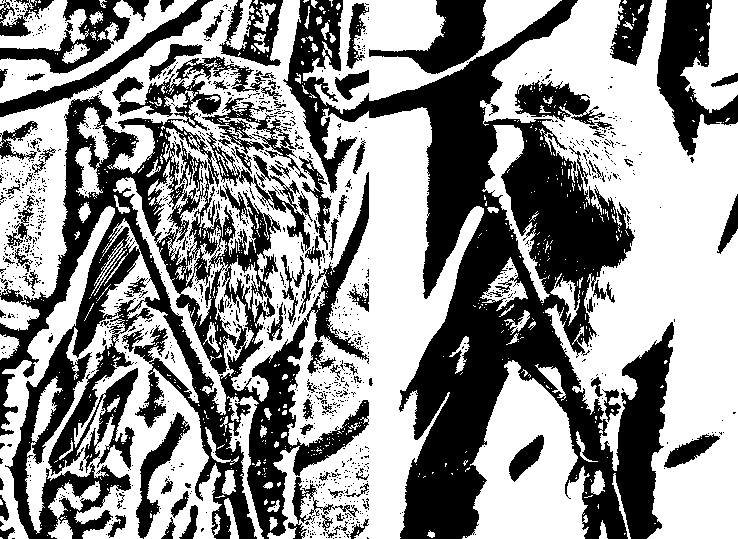
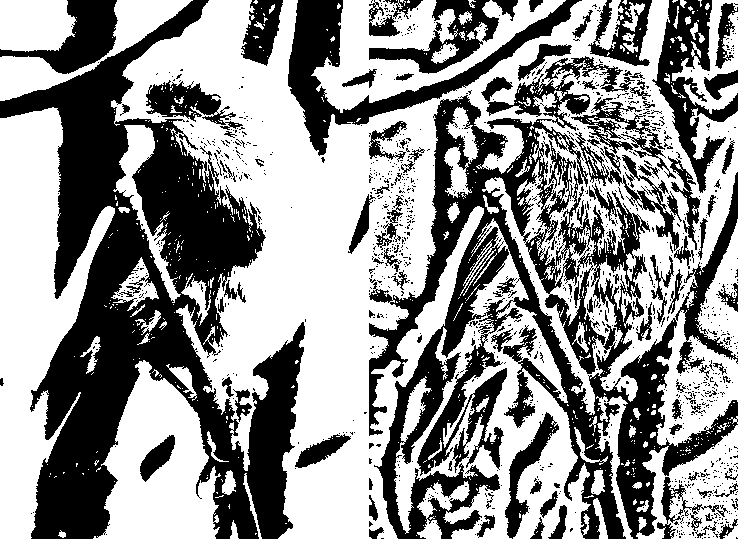
Switch to stack-based model for combining operations

Changed region(s): [[0.0, 0.0, 1.0, 1.0]]

diff --git a/src/stage.rs b/src/stage.rs
@@ -12,59 +12,173 @@ use imageproc::{
     seam_carving::shrink_width,
 };
 use std::cmp;
-use std::collections::HashMap;
 
-/// A variable in the image pipeline.
-#[derive(Debug, Clone, Hash, PartialEq, Eq)]
-pub struct Var(String);
+// TODO:
+// - hcat should support an arbitrary number of arguments - either read everything left on the stack or take num_imgs argument
+// - at the end of processing, read images off the stack and write as many as we have output names for
+//      example flows
+//          read two inputs
+//              first: blur
+//              second: sharpen
+//          finally: hcat blur sharpen
+// 
+//          read one input
+//              hcat (red channel input) (blue channel input)
+// 
+//          read one input 
+//              write red, blue and green channels as separate images
+//  - add vcat
+//  - support user-defined functions over pixels, e.g. map \x -> x * 0.3
+//  - add support for everything else relevant from imageproc
+//  - add validation for parsing of individual stages (make them subcommands somehow?)
+//  - add specific subcommands for the pipeline stages?
+//      e.g. make -p 'scale 0.4' equivalent to --scale 0.4
+//  - add stages with optional parameters. e.g. rotate uses image centre by default, but user
+//      can specify a centre of rotation if they like
 
-pub struct Graph {
-    pipelines: Vec<(Var, Vec<Stage>)>
+pub struct Stack<T> {
+    // The top of the stack is the last element in the vector.
+    contents: Vec<T>,
 }
 
-impl Graph {
-    pub fn parse(definition: &str) -> Self {
-        let mut pipelines = Vec::new();
-        for p in definition.split(';') {
-            // TODO: only the final pipeline is allowed to be missing a variable
-            // TODO: topological sort?
-            // TODO: validate input (e.g. only one equals sign). Create a proper grammar
-            let split: Vec<&str> = p.split('=').map(|s| s.trim()).collect();
-            let name = if split.len() > 1 { Var(split[0].into()) } else { Var(String::from("FINAL")) };
-            let stages = split.last().unwrap().split('>').map(|s| s.trim()).map(Stage::parse).collect();
-            pipelines.push((name, stages));
-        }
-        Graph { pipelines }
+// TODO: Write tests for all Stack functions.
+impl<T: Clone> Stack<T> {
+    /// Create a stack with the given initial elements.
+    /// The top of the stack is the last item in the provided vector.
+    pub fn new(contents: Vec<T>) -> Self {
+        Stack { contents }
     }
 
-    pub fn process(&self, input: DynamicImage, verbose: bool) -> DynamicImage {
-        let mut var_to_image = HashMap::new();
-        for (var, pipeline) in &self.pipelines {
-            let mut output = input.clone();
-            // TODO: write something that makes a bit more sense!
-            for stage in pipeline {
-                if verbose {
-                    println!("Applying stage {:?}", stage);
-                }
-                output = match stage {
-                    Stage::HCat(l, r) => {
-                        let inputs = vec![&var_to_image[&l], &var_to_image[&r]];
-                        stage.apply(&inputs)
-                    },
-                    _ => {
-                        let inputs = vec![&output];
-                        stage.apply(&inputs)
-                    }
-                }
-            }
-            var_to_image.insert(var, output);
+    fn len(&self) -> usize {
+        self.contents.len()
+    }
+
+    fn assert_stack_size(&self, op: &str, required: usize) {
+        assert!(
+            self.len() >= required,
+            "operation {} requires {} elements, but the stack only contains {}",
+            op, required, self.len()
+        );
+    }
+
+    // dup ( a -- a a )
+    fn dup(&mut self) {
+        self.assert_stack_size("dup", 1);
+        self.contents.push(self.contents[self.len() - 1].clone());
+    }
+
+    // drop ( a -- )
+    fn drop(&mut self) {
+        self.assert_stack_size("drop", 1);
+        self.contents.remove(self.len() - 1);
+    }
+
+    // swap ( a b -- b a )
+    fn swap(&mut self) {
+        self.assert_stack_size("swap", 2);
+        let (i, j) = (self.len() - 1, self.len() - 2);
+        self.contents.swap(i, j);
+    }
+
+    // over ( a b -- a b a )
+    fn over(&mut self) {
+        self.assert_stack_size("over", 2);
+        let a = self.contents[self.len() - 1].clone();
+        self.contents.insert(self.len() - 2, a);
+    }
+
+    // rot ( a b c -- b c a )
+    fn rot(&mut self) {
+        self.assert_stack_size("rot", 3);
+        let a = self.contents[self.len() - 1].clone();
+        self.contents.remove(self.contents.len() - 1);
+        self.contents.insert(self.len() - 3, a);
+    }
+
+    // pops the top of the stack.
+    fn pop(&mut self) -> T {
+        assert!(!self.contents.is_empty(), "cannot pop an empty stack");
+        self.contents.pop().unwrap()
+    }
+
+    // pushes onto the top of the stack.
+    fn push(&mut self, x: T) {
+        self.contents.push(x);
+    }
+}
+
+type ImageStack = Stack<DynamicImage>;
+
+// TODO: support returning multiple images
+pub fn run_pipeline(pipeline: &str, inputs: Vec<DynamicImage>, verbose: bool) -> DynamicImage {
+    // TODO: validation!
+    let ops: Vec<Op> = pipeline.split('>').map(|s| s.trim()).map(|s| Op::parse(s).unwrap()).collect();
+    let mut stack = ImageStack::new(inputs);
+
+    for op in ops {
+        if verbose {
+            println!("Applying op {:?}", op);
         }
-        var_to_image[&Var(String::from("FINAL"))].clone()
+        op.apply(&mut stack);
+    }
+
+    stack.pop()
+}
+
+#[derive(Debug)]
+pub enum Op {
+    StackOp(StackOp),
+    ImageOp(ImageOp),
+}
+
+impl Op {
+    fn parse(op: &str) -> Option<Op> {
+        match StackOp::parse(op) {
+            Some(o) => Some(Op::StackOp(o)),
+            None => match ImageOp::parse(op) {
+                Some(o) => Some(Op::ImageOp(o)),
+                None => None,
+            }
+        }
+    }
+
+    fn apply(&self, stack: &mut ImageStack) {
+        match self {
+            Op::StackOp(s) => s.apply(stack),
+            Op::ImageOp(o) => o.apply(stack),
+        }
+    }
+}
+
+#[derive(Debug, Copy, Clone, PartialEq, Eq, Hash)]
+pub enum StackOp { Dup, Drop, Swap, Over, Rot }
+
+impl StackOp {
+    fn parse(op: &str) -> Option<Self> {
+        match op {
+            "DUP" => Some(StackOp::Dup),
+            "DROP" => Some(StackOp::Drop),
+            "SWAP" => Some(StackOp::Swap),
+            "OVER" => Some(StackOp::Over),
+            "ROT" => Some(StackOp::Rot),
+            _ => None,
+        }
+    }
+
+    fn apply(&self, stack: &mut ImageStack) {
+        // TODO: inline stack function definitions here?
+        match self {
+            StackOp::Dup => stack.dup(),
+            StackOp::Drop => stack.drop(),
+            StackOp::Swap => stack.swap(),
+            StackOp::Over => stack.over(),
+            StackOp::Rot => stack.rot(),
+        }
     }
 }
 
 #[derive(Debug)]
-pub enum Stage {
+pub enum ImageOp {
     /// Scale both width and height by given multiplier.
     Scale(f32),
     /// Apply a Gaussian blur with the given standard deviation.
@@ -77,69 +191,71 @@ pub enum Stage {
     Sobel,
     /// Apply seam carving to shrink the image to a provided multiple of its original width.
     Carve(f32),
-    /// Binarises the image using an adaptive thresholding with given block radius.
+    /// Binarise the image using an adaptive thresholding with given block radius.
     AdaptiveThreshold(u32),
-    /// Binarises the image using Otsu thresholding.
+    /// Binarise the image using Otsu thresholding.
     OtsuThreshold,
-    /// The horizontal concatenation of two named images.
-    HCat(Var, Var),
+    /// Horizontally concatenate two images.
+    HCat,
 }
 
-impl Stage {
-    pub fn apply(&self, images: &[&DynamicImage]) -> DynamicImage {
+impl ImageOp {
+    pub fn apply(&self, stack: &mut ImageStack) {
         match self {
             Self::Scale(s) => {
-                let image = images[0];
+                let image = stack.pop();
                 let (w, h) = ((image.width() as f32 * s) as u32, (image.height() as f32 * s) as u32);
-                image.resize(w, h, FilterType::Lanczos3)
+                stack.push(image.resize(w, h, FilterType::Lanczos3));
             },
             Self::Gaussian(s) => {
-                let image = images[0];
-                image.gaussian(*s)
+                let image = stack.pop();
+                stack.push(image.gaussian(*s));
             },
             Self::Gray => {
-                let image = images[0];
-                image.grayscale()
+                let image = stack.pop();
+                stack.push(image.grayscale());
             },
             Self::Rotate(t) => {
-                let image = images[0];
-                image.rotate(*t)
+                let image = stack.pop();
+                stack.push(image.rotate(*t));
             },
             Self::Sobel => {
-                let image = images[0];
-                image.sobel()
+                let image = stack.pop();
+                stack.push(image.sobel());
             },
             Self::Carve(r) => {
-                let image = images[0];
-                image.carve(*r)
+                let image = stack.pop();
+                stack.push(image.carve(*r));
             },
             Self::AdaptiveThreshold(r) => {
-                let image = images[0];
-                image.adaptive_threshold(*r)
+                let image = stack.pop();
+                stack.push(image.adaptive_threshold(*r));
             },
             Self::OtsuThreshold => {
-                let image = images[0];
-                image.otsu_threshold()
+                let image = stack.pop();
+                stack.push(image.otsu_threshold());
             },
-            Self::HCat(_l, _r) => {
-                hcat(images[0], images[1])
+            Self::HCat => {
+                let l = stack.pop();
+                let r = stack.pop();
+                stack.push(hcat(&l, &r));
             }
         }
     }
 
-    pub fn parse(stage: &str) -> Stage {
-        let split: Vec<&str> = stage.split_whitespace().collect();
+    pub fn parse(op: &str) -> Option<ImageOp> {
+        let split: Vec<&str> = op.split_whitespace().collect();
         match split[0] {
-            "scale" => Stage::Scale(split[1].parse().unwrap()),
-            "gaussian" => Stage::Gaussian(split[1].parse().unwrap()),
-            "gray" => Stage::Gray,
-            "rotate" => Stage::Rotate(split[1].parse().unwrap()),
-            "sobel" => Stage::Sobel,
-            "carve" => Stage::Carve(split[1].parse().unwrap()),
-            "athresh" => Stage::AdaptiveThreshold(split[1].parse().unwrap()),
-            "othresh" => Stage::OtsuThreshold,
-            "hcat" => Stage::HCat(Var(split[1].into()), Var(split[2].into())),
-            _ => panic!("Unrecognised stage name {}", split[0]),
+            "scale" => Some(ImageOp::Scale(split[1].parse().unwrap())),
+            "gaussian" => Some(ImageOp::Gaussian(split[1].parse().unwrap())),
+            "gray" => Some(ImageOp::Gray),
+            "rotate" => Some(ImageOp::Rotate(split[1].parse().unwrap())),
+            "sobel" => Some(ImageOp::Sobel),
+            "carve" => Some(ImageOp::Carve(split[1].parse().unwrap())),
+            "athresh" => Some(ImageOp::AdaptiveThreshold(split[1].parse().unwrap())),
+            "othresh" => Some(ImageOp::OtsuThreshold),
+            "hcat" => Some(ImageOp::HCat),
+            _ => None,
         }
     }
 }

diff --git a/src/main.rs b/src/main.rs
@@ -6,7 +6,7 @@ mod error;
 use crate::error::Result;
 
 mod stage;
-use stage::Graph;
+use stage::run_pipeline;
 
 #[derive(StructOpt, Debug)]
 struct Opt {
@@ -35,8 +35,7 @@ fn main() -> Result<()> {
         println!("Input image {:?} (width: {}, height: {})", &opt.input, input.width(), input.height());
     }
     let output = if opt.pipeline.is_some() {
-        let graph = Graph::parse(&opt.pipeline.unwrap());
-        graph.process(input, opt.verbose > 0)
+        run_pipeline(&opt.pipeline.unwrap(), vec![input], opt.verbose > 0)
     } else {
         input
     };

diff --git a/README.md b/README.md
@@ -30,7 +30,7 @@ cargo run --release -- -v -i images/robin.jpg -o images/3.png -p 'carve 0.85'
 <img src="images/3.png" alt="Output"/>
 
 <pre>
-cargo run --release -- -v -i images/robin.jpg -o images/4.png -p 'a = scale 0.4 > athresh 10; o = scale 0.4 > othresh; hcat a o'
+cargo run --release -- -v -i images/robin.jpg -o images/4.png -p 'scale 0.4 > DUP > athresh 10 > SWAP > othresh > hcat'
 </pre>
 
 <img src="images/4.png" alt="Output"/>
